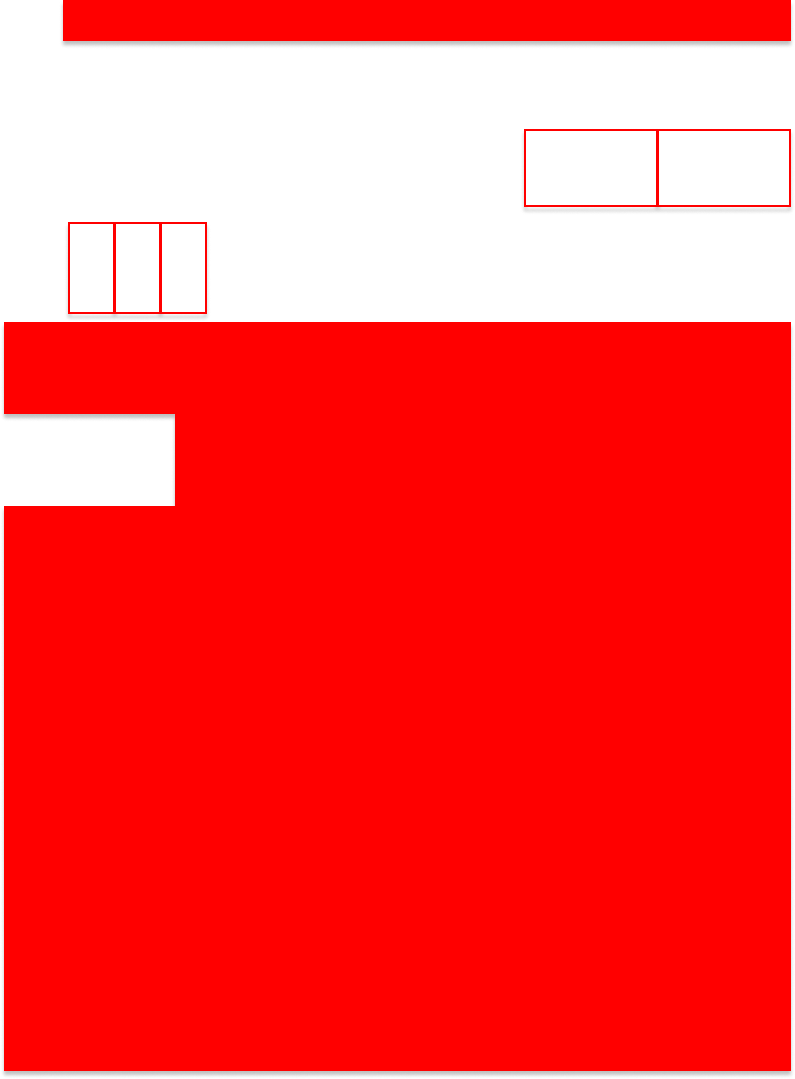
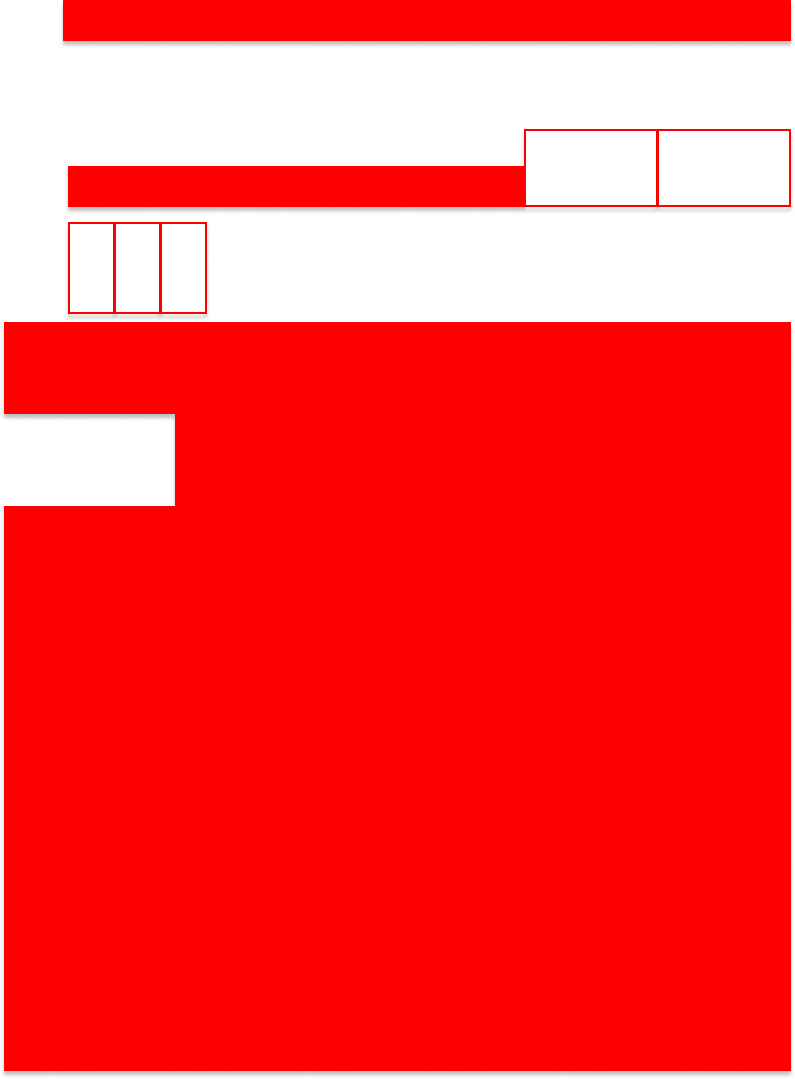
Claude AI解析結果を改善 - タイトルをカード内に配置、確率表示を削除

Changed region(s): [[0.0604, 0.1529, 0.6642, 0.2141]]

diff --git a/web_app/streamlit_app_full_claude.py b/web_app/streamlit_app_full_claude.py
@@ -2497,16 +2497,16 @@ if 'analysis_results' in st.session_state and st.session_state.analysis_results:
                     with st.expander("📷 元画像を表示"):
                         st.image(result['original_image'], use_column_width=True)
                     
-                    # Claude API解析結果の表示（エキスパンダーなしで直接表示・統計情報の前に配置）
-                    if result.get('claude_analysis'):
-                        if result['claude_analysis'] and result['claude_analysis']['success']:
-                            claude_data = result['claude_analysis'].get('data')
-                            if claude_data:
-                                # カード風のスタイルで表示
-                                st.markdown("### 🤖 Claude AI解析結果")
-                                
-                                # カード風のHTMLスタイル
-                                html_content = '<div class="stat-card">'
+                    # 成功時は統計情報を表示（解析結果の下に縦に並べる）
+                    if result['success']:
+                        # Claude API解析結果の表示（統計情報の上に配置）
+                        if result.get('claude_analysis'):
+                            if result['claude_analysis'] and result['claude_analysis']['success']:
+                                claude_data = result['claude_analysis'].get('data')
+                                if claude_data:
+                                    # カード風のHTMLスタイル
+                                    html_content = '<div class="stat-card">'
+                                    html_content += '<div class="ocr-title">🤖 Claude AI解析結果</div>'
                                 
                                 # 機種名と日付をカード内に含める
                                 if claude_data.get('machine_name'):
@@ -2531,21 +2531,19 @@ if 'analysis_results' in st.session_state and st.session_state.analysis_results:
                                             <span class="stat-value">{claude_data['machine_number']}</span>
                                         </div>'''
                                     
-                                    # 大当たり情報
+                                    # 大当たり情報（確率表示なし）
                                     if claude_data.get('total_jackpots') is not None:
-                                        prob = f" (1/{claude_data.get('total_jackpot_probability', '?')})" if claude_data.get('total_jackpot_probability') else ""
                                         html_content += f'''
                                         <div class="stat-item">
                                             <span class="stat-label">🎯 大当り回数</span>
-                                            <span class="stat-value positive">{claude_data['total_jackpots']}回{prob}</span>
+                                            <span class="stat-value positive">{claude_data['total_jackpots']}回</span>
                                         </div>'''
                                     
                                     if claude_data.get('first_jackpots') is not None:
-                                        prob = f" (1/{claude_data.get('first_jackpot_probability', '?')})" if claude_data.get('first_jackpot_probability') else ""
                                         html_content += f'''
                                         <div class="stat-item">
                                             <span class="stat-label">🎯 初当り回数</span>
-                                            <span class="stat-value positive">{claude_data['first_jackpots']}回{prob}</span>
+                                            <span class="stat-value positive">{claude_data['first_jackpots']}回</span>
                                         </div>'''
                                     
                                     # 大当たり内訳
@@ -2622,18 +2620,15 @@ if 'analysis_results' in st.session_state and st.session_state.analysis_results:
                                     # テキスト形式で結果が返された場合
                                     st.markdown("**解析結果（テキスト）**")
                                     st.text(result['claude_analysis']['raw_text'])
-                        else:
-                            # APIエラーの場合
-                            if result['claude_analysis']:
-                                with st.expander("🤖 Claude AI解析結果（エラー）", expanded=False):
-                                    st.error(f"解析エラー: {result['claude_analysis'].get('error', '不明なエラー')}")
-                    elif result.get('detail_image_processed') and not st.session_state.get('claude_api_key'):
-                        # APIキーが設定されていない場合のメッセージ
-                        with st.expander("🤖 Claude AI解析"):
-                            st.info("Claude APIキーが設定されていません。管理者ログインしてAPIキーを設定してください。")
-
-                    # 成功時は統計情報を表示（解析結果の下に縦に並べる）
-                    if result['success']:
+                            else:
+                                # APIエラーの場合
+                                if result['claude_analysis']:
+                                    with st.expander("🤖 Claude AI解析結果（エラー）", expanded=False):
+                                        st.error(f"解析エラー: {result['claude_analysis'].get('error', '不明なエラー')}")
+                        elif result.get('detail_image_processed') and not st.session_state.get('claude_api_key'):
+                            # APIキーが設定されていない場合のメッセージ
+                            with st.expander("🤖 Claude AI解析"):
+                                st.info("Claude APIキーが設定されていません。管理者ログインしてAPIキーを設定してください。")
                         # 統計情報をカード風に表示
                         st.markdown("""
                 <style>
